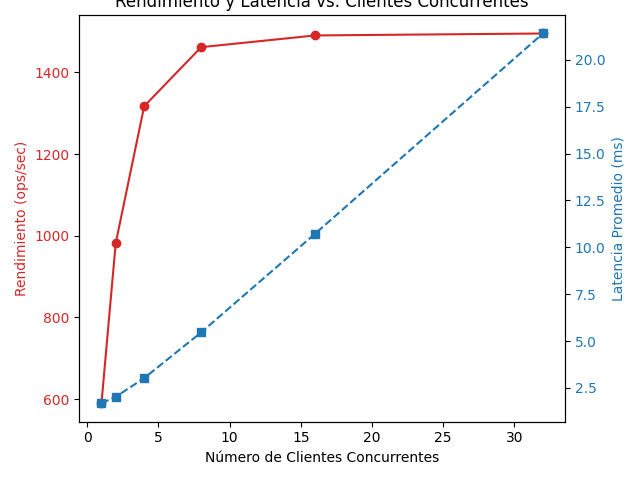
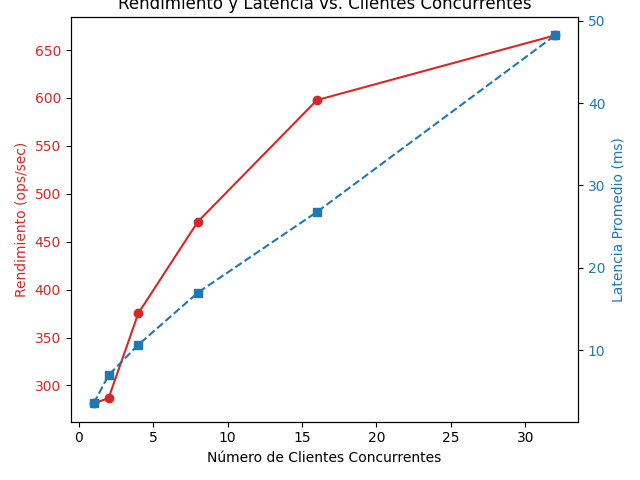
agregando prefix

diff --git a/test_script.py b/test_script.py
@@ -98,8 +98,8 @@ def client_worker(client_id, port, workload_type, value_size, duration_sec):
 
     # Aumentar límites de tamaño de mensaje para gRPC
     grpc_options = [
-        ('grpc.max_send_message_length', 64 * 1024 * 1024),
-        ('grpc.max_receive_message_length', 64 * 1024 * 1024),
+        ('grpc.max_send_message_length', 128 * 1024 * 1024),
+        ('grpc.max_receive_message_length', 128 * 1024 * 1024),
     ]
 
     with grpc.insecure_channel(address, options=grpc_options) as channel:
@@ -115,11 +115,16 @@ def client_worker(client_id, port, workload_type, value_size, duration_sec):
                 value = generate_random_value(value_size)
                 stub.Set(keyvalue_pb2.SetRequest(key=key, value=value))
             elif workload_type == 'mixed':
-                if random.random() < 0.5:
+                op = random.random()
+                if op < 0.4:
                     stub.Get(keyvalue_pb2.GetRequest(key=key))
-                else:
+                elif op < 0.8:
                     value = generate_random_value(value_size)
                     stub.Set(keyvalue_pb2.SetRequest(key=key, value=value))
+                else:
+                    # Aquí integramos el GetPrefix
+                    prefix = f"client{client_id}-key-"
+                    stub.GetPrefix(keyvalue_pb2.GetPrefixRequest(prefix=prefix))
 
             op_end_time = time.time()
             latencies.append((op_end_time - op_start_time) * 1000) # en ms
@@ -145,8 +150,8 @@ def run_latency_vs_size_test(port):
             # Pre-poblar datos para la prueba de lectura
             if w_type == 'read':
                 grpc_options = [
-                    ('grpc.max_send_message_length', 64 * 1024 * 1024),
-                    ('grpc.max_receive_message_length', 64 * 1024 * 1024),
+                    ('grpc.max_send_message_length', 128 * 1024 * 1024),
+                    ('grpc.max_receive_message_length', 128 * 1024 * 1024),
                 ]
                 with grpc.insecure_channel(f'localhost:{port}', options=grpc_options) as channel:
                     stub = keyvalue_pb2_grpc.KeyValueStub(channel)
@@ -270,8 +275,8 @@ def run_durability_and_restart_test(port):
 
     keys_written = set()
     with grpc.insecure_channel(f'localhost:{port}', options=[
-        ('grpc.max_send_message_length', 64 * 1024 * 1024),
-        ('grpc.max_receive_message_length', 64 * 1024 * 1024),
+        ('grpc.max_send_message_length', 128 * 1024 * 1024),
+        ('grpc.max_receive_message_length', 128 * 1024 * 1024),
     ]) as channel:
         stub = keyvalue_pb2_grpc.KeyValueStub(channel)
         for i in range(num_keys_to_write):
@@ -295,8 +300,8 @@ def run_durability_and_restart_test(port):
 
     # Medir latencia "en frío" (justo después de reiniciar)
     with grpc.insecure_channel(f'localhost:{port}', options=[
-        ('grpc.max_send_message_length', 64 * 1024 * 1024),
-        ('grpc.max_receive_message_length', 64 * 1024 * 1024),
+        ('grpc.max_send_message_length', 128 * 1024 * 1024),
+        ('grpc.max_receive_message_length', 128 * 1024 * 1024),
     ]) as channel:
         stub = keyvalue_pb2_grpc.KeyValueStub(channel)
         

diff --git a/lbclient.py b/lbclient.py
@@ -10,7 +10,7 @@ def run_command(args):
     """Ejecuta un comando en el servidor."""
     address = f'localhost:{args.port}'
     # Set max message size to 32MB for both send and receive
-    max_msg_len = 32 * 1024 * 1024
+    max_msg_len = 128 * 1024 * 1024
     with grpc.insecure_channel(
         address,
         options=[
@@ -75,4 +75,3 @@ if __name__ == '__main__':
     
     args = parser.parse_args()
     run_command(args)
-

diff --git a/lbserver.py b/lbserver.py
@@ -56,7 +56,7 @@ def serve(port):
     storage_instance = Storage()
     
     # Aumentar el tamaño máximo de mensaje a 32MB
-    max_msg_len = 32 * 1024 * 1024
+    max_msg_len = 128 * 1024 * 1024
     server = grpc.server(
         futures.ThreadPoolExecutor(max_workers=32),
         options=[
